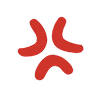
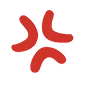
feat: 新增疑惑/困惑和喜欢/爱心情绪特效，优化愤怒粒子
- 愤怒特效：只保留1个愤怒粒子+1个感叹号，按设计稿调整尺寸和位置，粒子展示后停留
- 疑惑特效：3个问号(右上角)+红色问号(左下角)，带持续轻微摇晃动画
- 爱心特效：左1爱心+左2爱心+右1爱心，向上飘出后停留
- 各角色新增 confused 和 love 情绪回复

Changed region(s): [[0.1136, 0.1075, 0.8409, 0.5591], [0.3182, 0.4946, 0.7727, 0.7957]]

diff --git a/index.html b/index.html
@@ -446,28 +446,25 @@ body{
 }
 .anger-marks{display:none;position:absolute;top:0;left:0;right:0;bottom:0;pointer-events:none;overflow:visible}
 .bubble[data-emotion="angry"].show .anger-marks{display:block}
-.anger-mark{position:absolute;animation:anger-pop-fade 2s ease forwards}
-/* 大的 */
-.anger-mark:nth-child(1){opacity:0}
-.msg-row.left .anger-mark:nth-child(1){top:-10px;right:-2px}
-.msg-row.right .anger-mark:nth-child(1){top:-10px;left:-2px}
-.anger-mark:nth-child(1) img{width:20px;height:20px}
-/* 小的 */
-.anger-mark:nth-child(2){opacity:0;animation-delay:.15s}
-.msg-row.left .anger-mark:nth-child(2){top:-4px;right:-14px}
-.msg-row.right .anger-mark:nth-child(2){top:-4px;left:-14px}
-.anger-mark:nth-child(2) img{width:12px;height:12px}
-/* 感叹号 */
-.anger-mark:nth-child(3){opacity:0;animation-delay:.25s}
-.msg-row.left .anger-mark:nth-child(3){bottom:-8px;right:-4px;top:auto}
-.msg-row.right .anger-mark:nth-child(3){bottom:-8px;left:-4px;top:auto}
-.anger-mark:nth-child(3) img{width:14px;height:14px}
+.anger-mark{position:absolute;animation:anger-pop-fade 2s ease forwards;opacity:0}
+/* 愤怒粒子 —— 按设计稿：29x31, rotate(7deg), 气泡右上角外侧 */
+.anger-icon{animation-delay:0s}
+.msg-row.left .anger-icon{top:-12px;right:-5px}
+.msg-row.right .anger-icon{top:-12px;left:-5px}
+.anger-icon img{width:29px;height:31px}
+.msg-row.left .anger-icon img{transform:rotate(7deg) scale(0.95)}
+.msg-row.right .anger-icon img{transform:rotate(-7deg) scaleX(-1) scale(0.95)}
+/* 感叹号 —— 按设计稿：15x24, 位于愤怒粒子下方 */
+.anger-exclaim{animation-delay:.15s}
+.msg-row.left .anger-exclaim{top:20px;right:-5px}
+.msg-row.right .anger-exclaim{top:20px;left:-5px}
+.anger-exclaim img{width:15px;height:24px}
+.msg-row.right .anger-exclaim img{transform:scaleX(-1)}
 @keyframes anger-pop-fade{
   0%{opacity:0;transform:scale(0) rotate(-20deg)}
   15%{opacity:1;transform:scale(1.15) rotate(5deg)}
   25%{opacity:1;transform:scale(1) rotate(0deg)}
-  70%{opacity:1;transform:scale(1) rotate(0deg)}
-  100%{opacity:0;transform:scale(.5) rotate(10deg)}
+  100%{opacity:1;transform:scale(1) rotate(0deg)}
 }
 @keyframes shake{
   0%,100%{transform:translateX(0) scale(1)}
@@ -477,6 +474,83 @@ body{
   60%{transform:translateX(calc(0.8 * var(--shake-distance))) scale(1)}
   75%{transform:translateX(calc(-0.3 * var(--shake-distance))) scale(1)}
   90%{transform:translateX(calc(0.3 * var(--shake-distance))) scale(1)}
+}
+
+/* ============ EMOTION: CONFUSED ============ */
+[data-style="comic"] .bubble[data-emotion="confused"]{
+  box-shadow:none;
+}
+[data-style="comic"] .has-avatar .bubble[data-emotion="confused"].show{
+  animation:bubble-pop-left var(--bubble-duration) var(--bubble-easing) both;
+}
+.msg-row.right .has-avatar .bubble[data-emotion="confused"].show{
+  animation:bubble-pop-right var(--bubble-duration) var(--bubble-easing) both;
+}
+.confused-marks{display:none;position:absolute;top:0;left:0;right:0;bottom:0;pointer-events:none;overflow:visible}
+.bubble[data-emotion="confused"].show .confused-marks{display:block}
+.confused-mark{position:absolute;opacity:0;animation:confused-pop 0.6s ease forwards, confused-sway 1.5s ease-in-out 0.6s infinite}
+/* 3个问号 —— 右上角 */
+.confused-mark.confused-questions{animation-delay:0s}
+.msg-row.left .confused-mark.confused-questions{top:-10px;right:-2px}
+.msg-row.right .confused-mark.confused-questions{top:-10px;left:-2px}
+.confused-mark.confused-questions img{width:21px;height:22px}
+.msg-row.right .confused-mark.confused-questions img{transform:scaleX(-1)}
+/* 红色问号 —— 左下角 */
+.confused-mark.confused-red{animation-delay:.2s}
+.msg-row.left .confused-mark.confused-red{bottom:-4px;left:-1px;top:auto}
+.msg-row.right .confused-mark.confused-red{bottom:-4px;right:-1px;top:auto}
+.confused-mark.confused-red img{width:10px;height:16px}
+.msg-row.left .confused-mark.confused-red img{transform:rotate(-15deg)}
+.msg-row.right .confused-mark.confused-red img{transform:rotate(15deg) scaleX(-1)}
+@keyframes confused-pop{
+  0%{opacity:0;transform:scale(0) translateY(4px)}
+  30%{opacity:1;transform:scale(1.1) translateY(-2px)}
+  50%{opacity:1;transform:scale(1) translateY(0)}
+  100%{opacity:1;transform:scale(1) translateY(0)}
+}
+@keyframes confused-sway{
+  0%,100%{transform:rotate(0deg)}
+  25%{transform:rotate(-5deg)}
+  75%{transform:rotate(5deg)}
+}
+
+/* ============ EMOTION: LOVE ============ */
+[data-style="comic"] .bubble[data-emotion="love"]{
+  box-shadow:none;
+}
+[data-style="comic"] .has-avatar .bubble[data-emotion="love"].show{
+  animation:bubble-pop-left var(--bubble-duration) var(--bubble-easing) both;
+}
+.msg-row.right .has-avatar .bubble[data-emotion="love"].show{
+  animation:bubble-pop-right var(--bubble-duration) var(--bubble-easing) both;
+}
+.love-marks{display:none;position:absolute;top:0;left:0;right:0;bottom:0;pointer-events:none;overflow:visible}
+.bubble[data-emotion="love"].show .love-marks{display:block}
+.love-mark{position:absolute;opacity:0;animation:love-float 0.8s ease forwards}
+/* 左1爱心 —— 左上角外侧 */
+.love-mark.love-1{animation-delay:0s}
+.msg-row.left .love-mark.love-1{top:-3px;right:-7px}
+.msg-row.right .love-mark.love-1{top:-3px;left:-7px}
+.love-mark.love-1 img{width:16px;height:16px}
+.msg-row.left .love-mark.love-1 img{transform:scaleX(-1)}
+/* 左2爱心 —— 左侧中间 */
+.love-mark.love-2{animation-delay:.15s}
+.msg-row.left .love-mark.love-2{top:9px;right:-10px}
+.msg-row.right .love-mark.love-2{top:9px;left:-10px}
+.love-mark.love-2 img{width:12px;height:12px}
+.msg-row.left .love-mark.love-2 img{transform:scaleX(-1)}
+/* 右1爱心 —— 右下角 */
+.love-mark.love-3{animation-delay:.3s}
+.msg-row.left .love-mark.love-3{bottom:-6px;left:-3px;top:auto}
+.msg-row.right .love-mark.love-3{bottom:-6px;right:-3px;top:auto}
+.love-mark.love-3 img{width:13px;height:13px}
+.msg-row.left .love-mark.love-3 img{transform:scaleX(-1) scale(0.6)}
+.msg-row.right .love-mark.love-3 img{transform:scale(0.6)}
+@keyframes love-float{
+  0%{opacity:0;transform:scale(0) translateY(16px)}
+  30%{opacity:1;transform:scale(1.3) translateY(-8px)}
+  60%{opacity:1;transform:scale(0.95) translateY(-3px)}
+  100%{opacity:1;transform:scale(1) translateY(0)}
 }
 
 /* ============ TYPING CURSOR (隐藏) ============ */
@@ -1048,6 +1122,19 @@ window.addEventListener('unhandledrejection', function(e) {
           '这谁顶得住啊',
           '算了 懒得理了',
         ],
+        confused: [
+          '啥情况',
+          '没看懂 再说一遍',
+          '？',
+          '什么意思',
+          '等等 我没跟上',
+        ],
+        love: [
+          '咳 别肉麻了',
+          '行吧 收下了',
+          '低调低调',
+          '嗯...',
+        ],
         neutral: [
           '行 没问题',
           '可以 随时',
@@ -1079,6 +1166,18 @@ window.addEventListener('unhandledrejection', function(e) {
           '别气了别气了',
           '消消气吧',
           '深呼吸深呼吸',
+        ],
+        confused: [
+          '啊？',
+          '没懂',
+          '什么什么',
+          '？？？',
+        ],
+        love: [
+          '好甜～',
+          '撒狗粮了',
+          '嘿嘿',
+          '羡慕了',
         ],
         neutral: [
           '加我一个加我一个',
@@ -1112,6 +1211,18 @@ window.addEventListener('unhandledrejection', function(e) {
           '也太过分了！',
           '哼 生气了',
           '我不管 不开心',
+        ],
+        confused: [
+          '啊？什么意思',
+          '没听懂诶',
+          '？？？',
+          '等等说慢点',
+        ],
+        love: [
+          '好甜好甜！',
+          '啊啊啊磕到了',
+          '我也爱你们！',
+          '甜死了～',
         ],
         neutral: [
           '收到～',
@@ -1147,6 +1258,19 @@ window.addEventListener('unhandledrejection', function(e) {
           '谁啊这是 气死姐了！',
           '哼 本姑娘的怒火到达顶点了',
         ],
+        confused: [
+          '啊？什么情况(・・？)',
+          '没懂没懂 再说一遍～',
+          '等下 我脑子转不过来了',
+          '？？？这啥意思',
+          '迷惑中...(´-ω-`)',
+        ],
+        love: [
+          '啊啊啊好甜！磕到了～',
+          '呜呜呜 恋爱的酸臭味',
+          '我也要恋爱！(╥_╥)',
+          '太甜了叭～羡慕嫉妒',
+        ],
         neutral: [
           '+1+1',
           '了解了～',
@@ -1179,6 +1303,18 @@ window.addEventListener('unhandledrejection', function(e) {
           '不理你们了哼(╥_╥)',
           '过分！本小姐生气了！',
         ],
+        confused: [
+          '诶？什么意思呀(・・?)',
+          '没听懂啦～再说一遍嘛',
+          '？？？好迷惑',
+          '等等我脑子跟不上了(๑°o°๑)',
+        ],
+        love: [
+          '天哪好甜！！♡♡♡',
+          '我也爱你呀～(◕ᴗ◕✿)',
+          '啊啊啊磕死我了！',
+          '甜蜜蜜～mua！',
+        ],
         neutral: [
           '嗯嗯好哒~(◕ᴗ◕✿)',
           '收到收到♪',
@@ -1193,10 +1329,14 @@ window.addEventListener('unhandledrejection', function(e) {
 
   /* ============ 情绪检测 ============ */
   function detectEmotion(text) {
-    const excitedWords = ['哈哈','太好了','冲冲冲','开心','好棒','太棒','耶','！！','!!','awsl','绝了','好耶','万岁','啦啦啦','666','nice','好开心','激动','兴奋','爱了','哇','想去','一起','出发','走起','期待'];
+    const excitedWords = ['哈哈','太好了','冲冲冲','开心','好棒','太棒','耶','！！','!!','awsl','绝了','好耶','万岁','啦啦啦','666','nice','好开心','激动','兴奋','哇','想去','一起','出发','走起','期待'];
     const angryWords = ['生气','愤怒','气死','烦死','讨厌','可恶','混蛋','去你的','滚','怒','火大','不爽','靠','我擦','无语','离谱','过分','烦','恶心','讨厌'];
+    const loveWords = ['爱你','喜欢你','么么','mua','亲亲','爱了','心动','好爱','太爱','暗恋','表白','恋爱','甜蜜','♡','❤','想你','抱抱','宝贝'];
+    const confusedWords = ['什么','为啥','不懂','？？','??','看不懂','怎么回事','啥意思','为什么','咋回事','搞不懂','迷惑','疑惑','谁','哪里','怎么','咋','啥','蒙了','懵'];
     const lowerText = text.toLowerCase();
     for (const w of angryWords) { if (lowerText.includes(w)) return 'angry'; }
+    for (const w of loveWords) { if (lowerText.includes(w)) return 'love'; }
+    for (const w of confusedWords) { if (lowerText.includes(w)) return 'confused'; }
     for (const w of excitedWords) { if (lowerText.includes(w)) return 'excited'; }
     return 'neutral';
   }
@@ -1355,10 +1495,16 @@ window.addEventListener('unhandledrejection', function(e) {
 
     let sparklesHTML = '';
     let angerHTML = '';
+    let confusedHTML = '';
+    let loveHTML = '';
     if (emotion === 'excited') {
       sparklesHTML = '<div class="sparkles"><span class="sparkle"></span><span class="sparkle"></span><span class="sparkle"></span></div>';
     } else if (emotion === 'angry') {
-      angerHTML = '<div class="anger-marks"><span class="anger-mark"><img src="愤怒.png" alt=""></span><span class="anger-mark"><img src="愤怒.png" alt=""></span><span class="anger-mark"><img src="生气感叹号.png" alt=""></span></div>';
+      angerHTML = '<div class="anger-marks"><span class="anger-mark anger-icon"><img src="愤怒.png" alt=""></span><span class="anger-mark anger-exclaim"><img src="生气感叹号.png" alt=""></span></div>';
+    } else if (emotion === 'confused') {
+      confusedHTML = '<div class="confused-marks"><span class="confused-mark confused-questions"><img src="3个问号.png" alt=""></span><span class="confused-mark confused-red"><img src="红色问号.png" alt=""></span></div>';
+    } else if (emotion === 'love') {
+      loveHTML = '<div class="love-marks"><span class="love-mark love-1"><img src="左1爱心.png" alt=""></span><span class="love-mark love-2"><img src="左2爱心.png" alt=""></span><span class="love-mark love-3"><img src="右1爱心.png" alt=""></span></div>';
     }
 
     const nameAlign = side === 'right' ? 'text-align:right' : '';
@@ -1380,7 +1526,7 @@ window.addEventListener('unhandledrejection', function(e) {
           <span class="sender-name" style="${nameAlign}">${member.name}</span>
           <div class="bubble" data-emotion="${emotion}" id="${bubbleId}">
             <span class="bubble-text"></span>
-            ${sparklesHTML}${angerHTML}
+            ${sparklesHTML}${angerHTML}${confusedHTML}${loveHTML}
           </div>
         </div>
       `;
